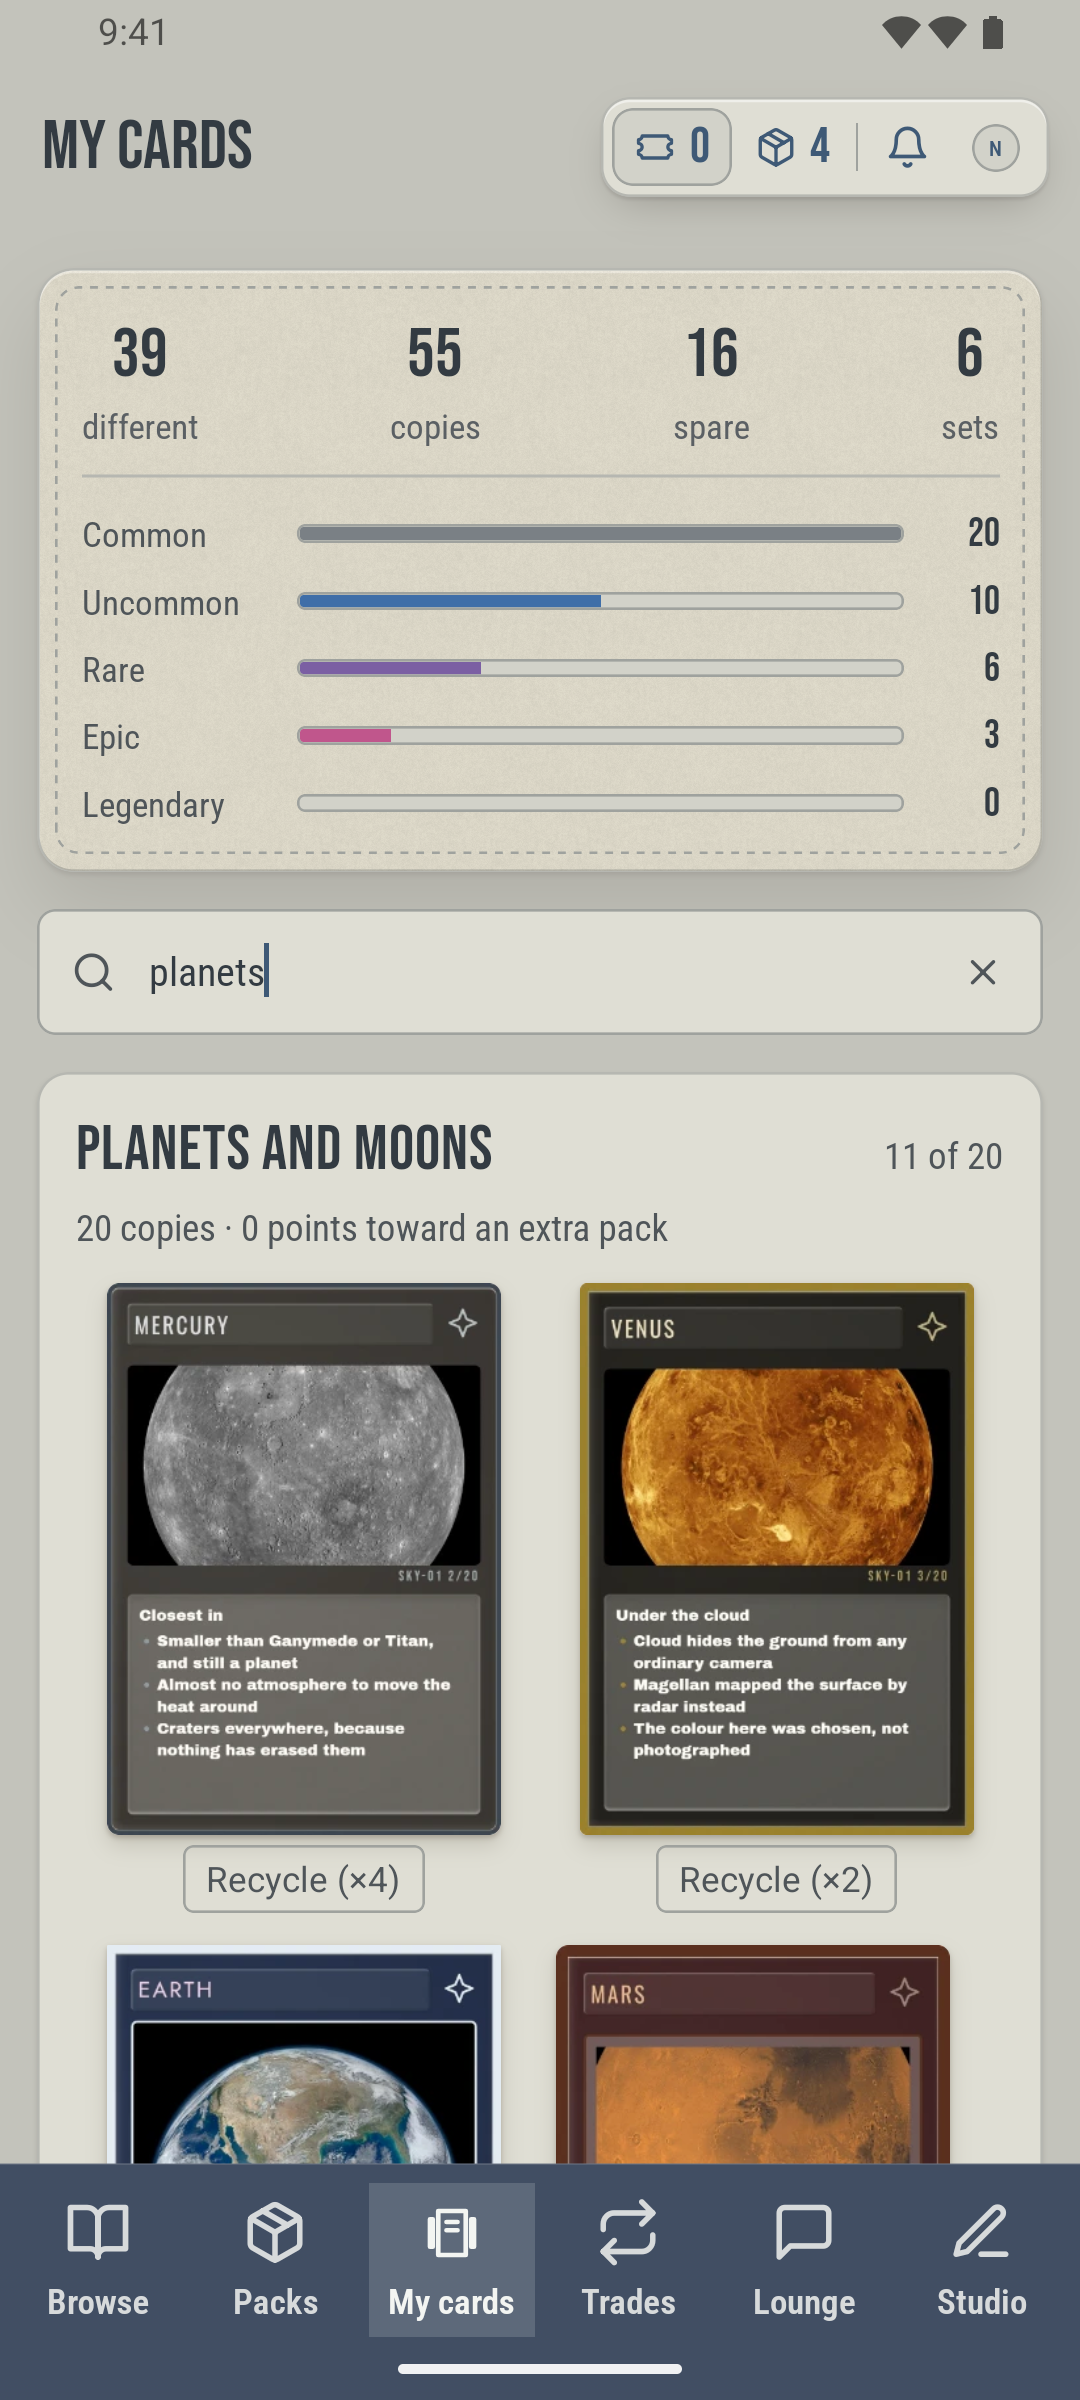
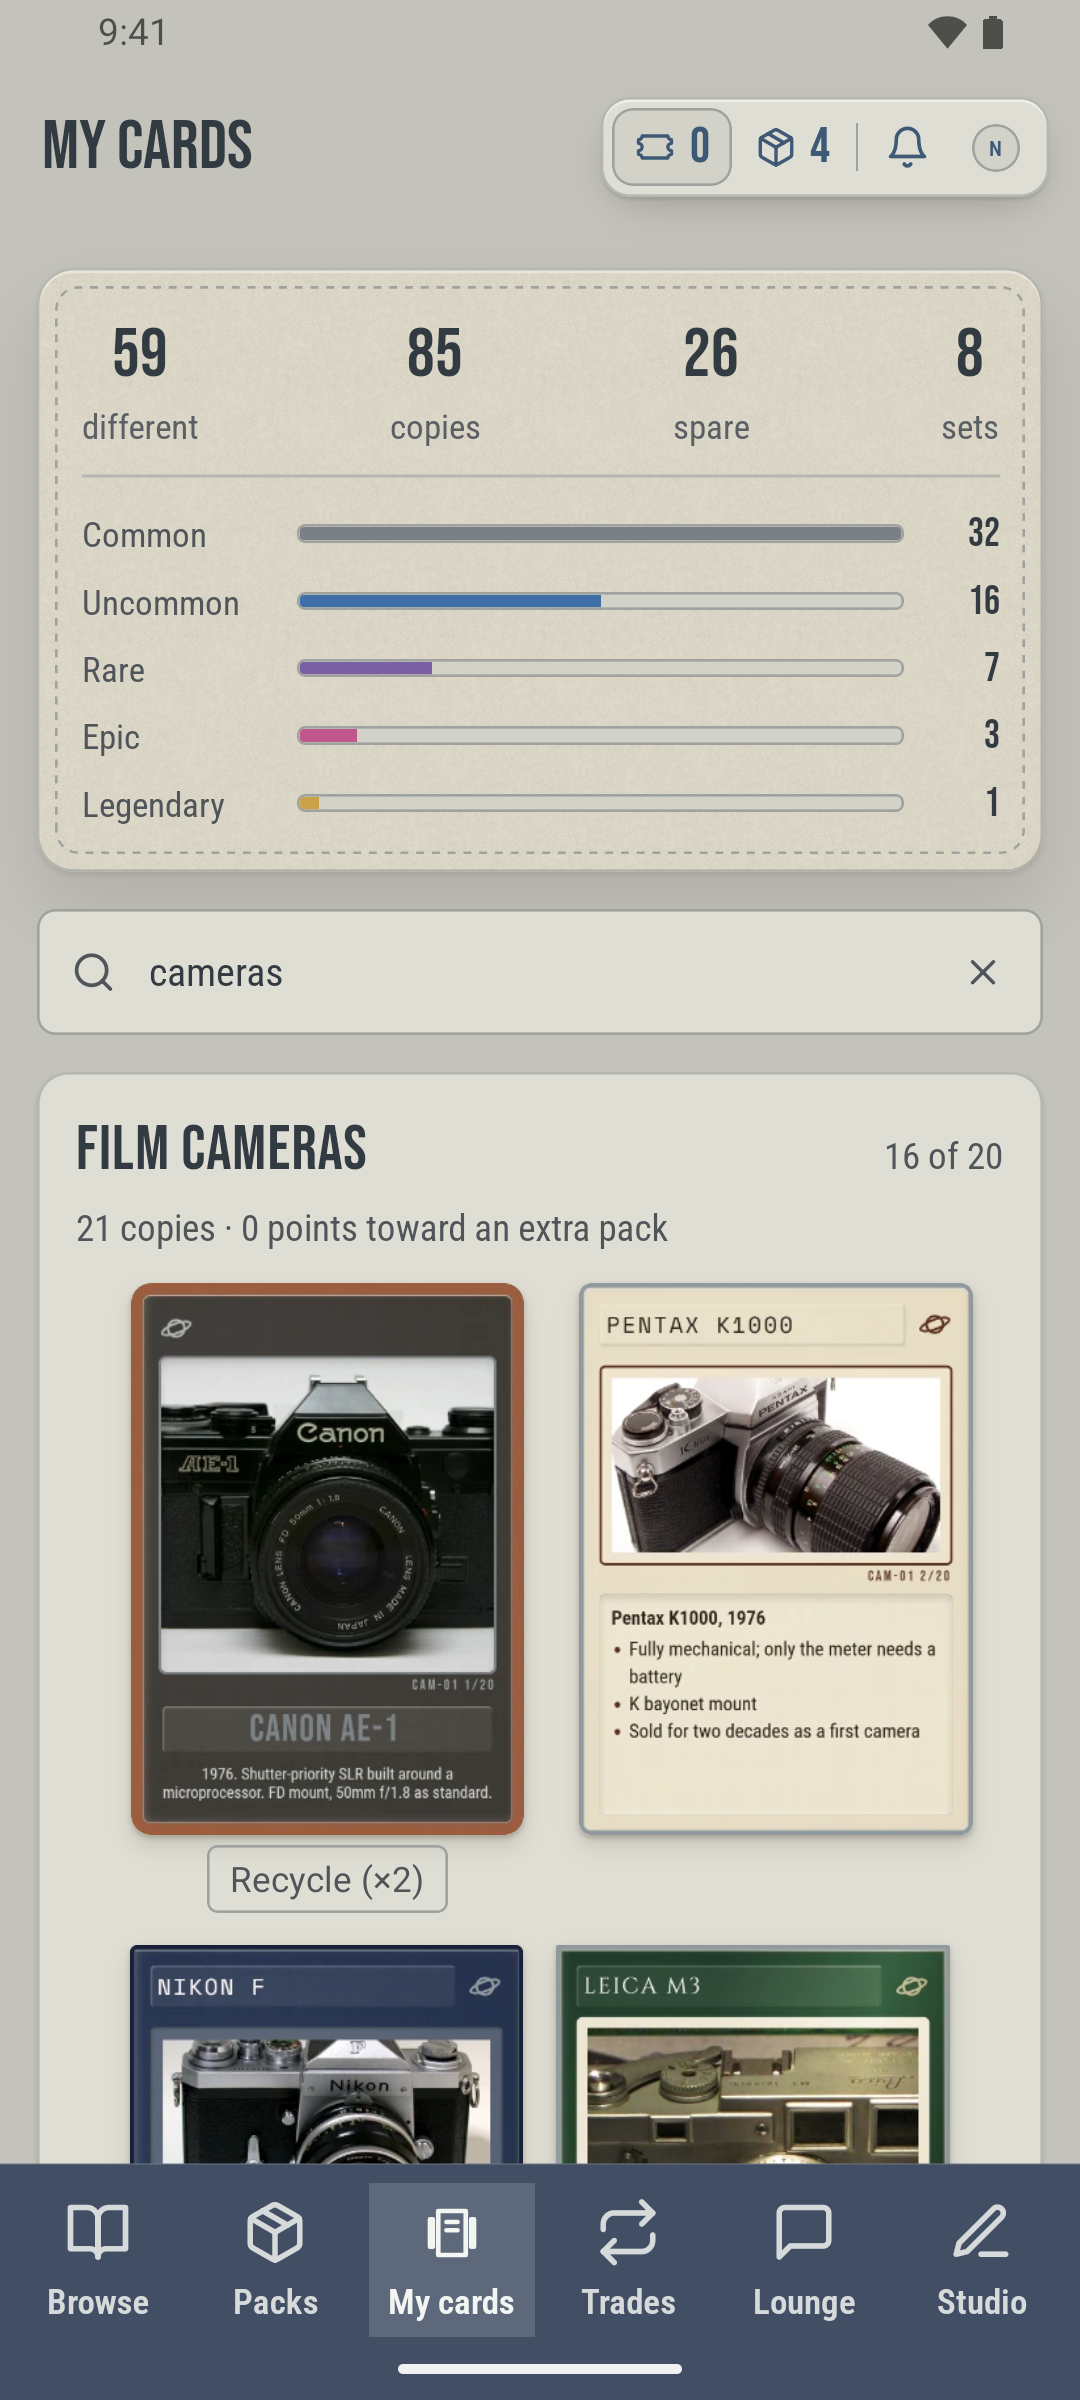
Replace the Planets and Moons phone screenshots
- Miscellary's phone gallery opens a Film Cameras pack instead of Planets and Moons
- The Packs and My cards shots show Film Cameras too
- The landscape phone images are rebuilt from the new shots

diff --git a/index.html b/index.html
@@ -417,19 +417,19 @@
                     src="assets/images/miscellary/mobile/october-2026/01-browse.png"
                   />
                   <img
-                    alt="Miscellary Android Packs screen with free Garden Birds and Planets and Moons packs"
+                    alt="Miscellary Android Packs screen filtered to Film Cameras, with the latest cards from the set"
                     src="assets/images/miscellary/mobile/october-2026/09-packs.png"
                   />
                   <img
-                    alt="Miscellary Android Planets and Moons pack ready to tear open"
+                    alt="Miscellary Android Film Cameras pack ready to tear open"
                     src="assets/images/miscellary/mobile/october-2026/08-pack.png"
                   />
                   <img
-                    alt="Miscellary Android pack reveal with Europa, six of ten cards revealed"
+                    alt="Miscellary Android pack reveal with the Graflex Crown Graphic, two of seven cards revealed"
                     src="assets/images/miscellary/mobile/october-2026/05-reveal.png"
                   />
                   <img
-                    alt="Miscellary Android finished pack ending on the Earth card"
+                    alt="Miscellary Android finished pack ending on the Rolleiflex 2.8F card"
                     src="assets/images/miscellary/mobile/october-2026/10-pack-complete.png"
                   />
                   <img
@@ -442,7 +442,7 @@
                     src="assets/images/miscellary/mobile/october-2026/03-binder.png"
                   />
                   <img
-                    alt="Miscellary Android My cards screen filtered to Planets and Moons, with rarity totals"
+                    alt="Miscellary Android My cards screen filtered to cameras, with rarity totals"
                     src="assets/images/miscellary/mobile/october-2026/06-collection.png"
                   />
                 </div>
